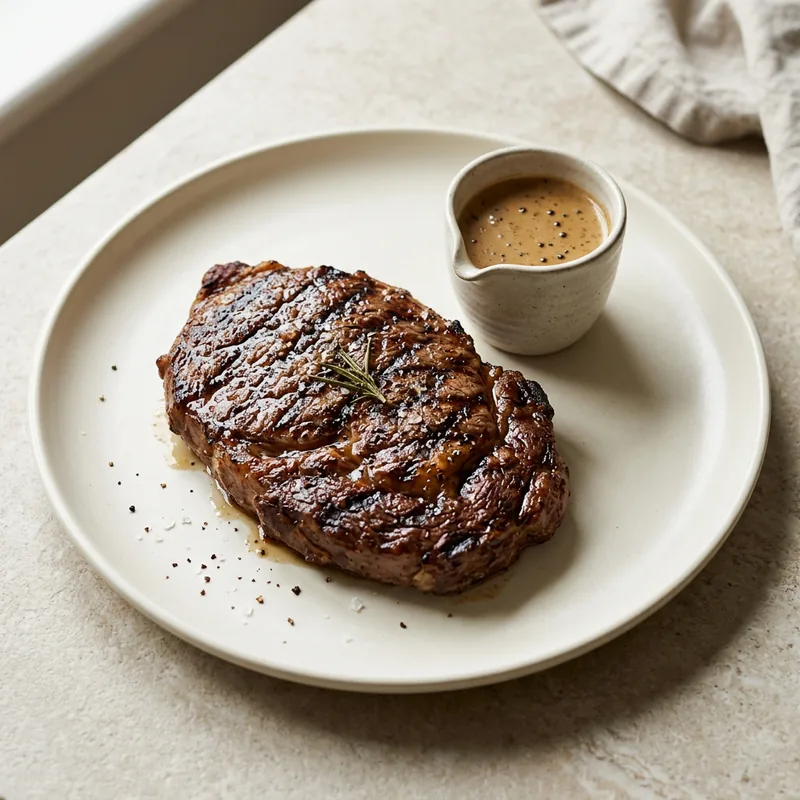
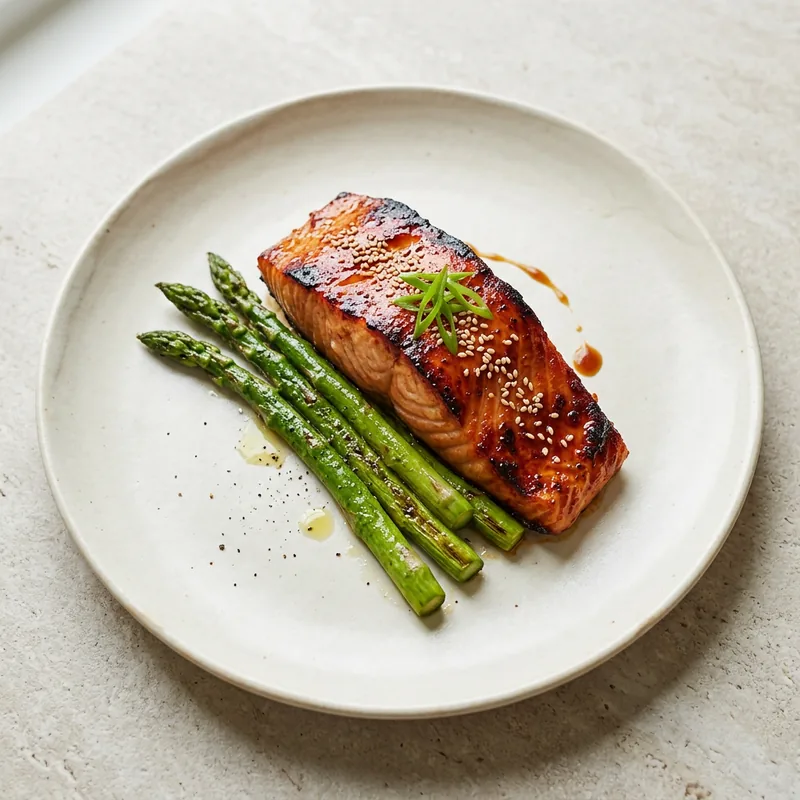
fix(home): correct dish photos in featured TTK cards (named images); add cheesecake photo; bump cache v9 / v=1048

diff --git a/index.html b/index.html
@@ -7,7 +7,7 @@
     /><meta property="og:image:width" content="1200" /><meta property="og:image:height" content="630" /><meta property="og:image:type" content="image/webp" /><meta property="og:image:alt" content="GastroConnect — HoReCa платформа для Москвы и области" /><meta name="twitter:card" content="summary_large_image" /><meta name="twitter:title" content="GastroConnect — смены, персонал и поставщики HoReCa в Москве" /><meta name="twitter:description" content="Срочные смены для поваров, официантов и бариста, надежный персонал для ресторанов и прямые B2B-поставки в Москве и Московской области." /><meta
       name="twitter:image"
       content="https://gastroconnect.ru/assets/og-gastroconnect.webp"
-    /><link rel="icon" href="/assets/favicon.svg" type="image/svg+xml" sizes="120x120" /><link rel="alternate icon" href="/favicon.ico" sizes="any" /><link rel="manifest" href="/site.webmanifest" /><link rel="stylesheet" href="/style.css?v=1047" /><script type="application/ld+json">
+    /><link rel="icon" href="/assets/favicon.svg" type="image/svg+xml" sizes="120x120" /><link rel="alternate icon" href="/favicon.ico" sizes="any" /><link rel="manifest" href="/site.webmanifest" /><link rel="stylesheet" href="/style.css?v=1048" /><script type="application/ld+json">
     {
       "@context": "https://schema.org",
       "@graph": [
@@ -1107,17 +1107,8 @@
 
               <!-- Card 4: Basque Cheesecake -->
               <div style="background: #1D5139; border: 1.5px solid rgba(198,163,98,0.25); border-radius: 14px; overflow: hidden; display: flex; flex-direction: column; box-shadow: 0 6px 20px rgba(0,0,0,0.05);">
-                <div style="height: 160px; background: #451a03; position: relative;">
-                  <svg viewBox="0 0 400 280" style="width: 100%; height: 100%; object-fit: cover;">
-                    <ellipse cx="200" cy="150" rx="160" ry="95" fill="#F2E8D5"/>
-                    <path d="M 90 170 C 130 190, 200 190, 280 160" stroke="#991b1b" stroke-width="12" fill="none" opacity="0.4"/>
-                    <g transform="translate(130, 75)">
-                      <path d="M 20 60 L 120 20 L 105 25 L 20 60 Z" fill="#3f1f10"/>
-                      <path d="M 20 60 L 125 110 L 115 130 L 15 80 Z" fill="#fde68a" stroke="#d97706" stroke-width="1"/>
-                    </g>
-                    <circle cx="140" cy="180" r="9" fill="#be123c"/>
-                    <circle cx="260" cy="155" r="9" fill="#be123c"/>
-                  </svg>
+                <div style="height: 160px; background: #101C17; position: relative;">
+                  <img src="/assets/ttk-featured-4.webp" alt="Баскский чизкейк Сан-Себастьян — фото блюда" loading="lazy" decoding="async" style="width: 100%; height: 100%; object-fit: cover; display: block;" />
                   <span style="position: absolute; top: 10px; right: 10px; background: var(--green); color: #fff; font-size: 11px; font-weight: 800; padding: 3px 8px; border-radius: 6px;">FC: 22.0%</span>
                   <span style="position: absolute; top: 10px; left: 10px; background: rgba(0,0,0,0.7); color: var(--gold); font-size: 11px; font-weight: 700; padding: 2px 7px; border-radius: 5px;">ТТК-КОНД-09</span>
                 </div>

diff --git a/cabinet.html b/cabinet.html
@@ -3,7 +3,7 @@
       content="Личный кабинет GastroConnect для профилей, смен, приглашений и заявок по ролям."
     />
     <meta property="og:description" content="Личный кабинет пользователя GastroConnect: управление профилем, отклики на смены, приглашения кандидатов и мониторинг заявок." />
-    <meta name="keywords" content="личный кабинет gastroconnect, кабинет соискателя horeca, кабинет заведения москва, управление сменами gastroconnect" /><meta name="theme-color" content="#1D5139" /><link rel="icon" href="/assets/favicon.svg" type="image/svg+xml" sizes="120x120" /><link rel="alternate icon" href="/favicon.ico" sizes="any" /><link rel="manifest" href="/site.webmanifest" /><link rel="stylesheet" href="/style.css?v=1047" />
+    <meta name="keywords" content="личный кабинет gastroconnect, кабинет соискателя horeca, кабинет заведения москва, управление сменами gastroconnect" /><meta name="theme-color" content="#1D5139" /><link rel="icon" href="/assets/favicon.svg" type="image/svg+xml" sizes="120x120" /><link rel="alternate icon" href="/favicon.ico" sizes="any" /><link rel="manifest" href="/site.webmanifest" /><link rel="stylesheet" href="/style.css?v=1048" />
   <script defer src="/cookie-consent.js"></script>
 </head><body><div class="page-shell"><header class="site-header"><a class="brand" href="/" aria-label="GastroConnect"><span class="brand-mark" aria-hidden="true">GC</span><span class="brand-text">GastroConnect</span></a><nav class="main-nav" aria-label="Главное меню"><a href="/workers/">Сотрудникам</a><a href="/restaurants/">Заведениям</a><a href="/suppliers/">Поставщикам</a><a href="/menu/" style="color: var(--ink); font-weight: 750;">Меню и техкарты</a><a href="/contacts/">Контакты</a></nav><button id="logoutBtn" type="button">Выйти</button></header><main class="cabinet-page service-page"><section class="service-hero service-hero-cabinet"><div class="service-hero-copy"><p class="eyebrow" data-site-setting="cabinet.eyebrow">
               Рабочее пространство

diff --git a/cabinet/index.html b/cabinet/index.html
@@ -3,7 +3,7 @@
       content="Личный кабинет GastroConnect для профилей, смен, приглашений и заявок по ролям."
     />
     <meta property="og:description" content="Личный кабинет пользователя GastroConnect: управление профилем, отклики на смены, приглашения кандидатов и мониторинг заявок." />
-    <meta name="keywords" content="личный кабинет gastroconnect, кабинет соискателя horeca, кабинет заведения москва, управление сменами gastroconnect" /><meta name="theme-color" content="#1D5139" /><link rel="icon" href="/assets/favicon.svg" type="image/svg+xml" sizes="120x120" /><link rel="alternate icon" href="/favicon.ico" sizes="any" /><link rel="manifest" href="/site.webmanifest" /><link rel="stylesheet" href="/style.css?v=1047" />
+    <meta name="keywords" content="личный кабинет gastroconnect, кабинет соискателя horeca, кабинет заведения москва, управление сменами gastroconnect" /><meta name="theme-color" content="#1D5139" /><link rel="icon" href="/assets/favicon.svg" type="image/svg+xml" sizes="120x120" /><link rel="alternate icon" href="/favicon.ico" sizes="any" /><link rel="manifest" href="/site.webmanifest" /><link rel="stylesheet" href="/style.css?v=1048" />
   <script defer src="/cookie-consent.js"></script>
 </head><body><div class="page-shell"><header class="site-header"><a class="brand" href="/" aria-label="GastroConnect"><span class="brand-mark" aria-hidden="true">GC</span><span class="brand-text">GastroConnect</span></a><nav class="main-nav" aria-label="Главное меню"><a href="/workers/">Сотрудникам</a><a href="/restaurants/">Заведениям</a><a href="/suppliers/">Поставщикам</a><a href="/menu/" style="color: var(--ink); font-weight: 750;">Меню и техкарты</a><a href="/contacts/">Контакты</a></nav><button id="logoutBtn" type="button">Выйти</button></header><main class="cabinet-page service-page"><section class="service-hero service-hero-cabinet"><div class="service-hero-copy"><p class="eyebrow" data-site-setting="cabinet.eyebrow">
               Рабочее пространство

diff --git a/admin.html b/admin.html
@@ -3,7 +3,7 @@
       content="Локальная панель управления заявками GastroConnect."
     />
     <meta property="og:description" content="Панель администратора GastroConnect: модерация заявок, управление базой пользователей и смен HoReCa." />
-    <meta name="keywords" content="панель администратора gastroconnect, администрирование смен horeca, модерация заявок gastroconnect" /><meta name="theme-color" content="#1D5139" /><link rel="icon" href="/assets/favicon.svg" type="image/svg+xml" sizes="120x120" /><link rel="alternate icon" href="/favicon.ico" sizes="any" /><link rel="manifest" href="/site.webmanifest" /><link rel="stylesheet" href="/style.css?v=1047" />
+    <meta name="keywords" content="панель администратора gastroconnect, администрирование смен horeca, модерация заявок gastroconnect" /><meta name="theme-color" content="#1D5139" /><link rel="icon" href="/assets/favicon.svg" type="image/svg+xml" sizes="120x120" /><link rel="alternate icon" href="/favicon.ico" sizes="any" /><link rel="manifest" href="/site.webmanifest" /><link rel="stylesheet" href="/style.css?v=1048" />
   <script defer src="/cookie-consent.js"></script>
 </head><body><div class="page-shell"><header class="site-header"><a class="brand" href="/" aria-label="GastroConnect"><span class="brand-mark" aria-hidden="true">GC</span><span class="brand-text">GastroConnect</span></a><nav class="main-nav" aria-label="Главное меню"><a href="/workers/" data-site-setting="nav.workers">Сотрудникам</a><a href="/restaurants/" data-site-setting="nav.restaurants"
             >Заведениям</a

diff --git a/admin/index.html b/admin/index.html
@@ -3,7 +3,7 @@
       content="Локальная панель управления заявками GastroConnect."
     />
     <meta property="og:description" content="Панель администратора GastroConnect: модерация заявок, управление базой пользователей и смен HoReCa." />
-    <meta name="keywords" content="панель администратора gastroconnect, администрирование смен horeca, модерация заявок gastroconnect" /><meta name="theme-color" content="#1D5139" /><link rel="icon" href="/assets/favicon.svg" type="image/svg+xml" sizes="120x120" /><link rel="alternate icon" href="/favicon.ico" sizes="any" /><link rel="manifest" href="/site.webmanifest" /><link rel="stylesheet" href="/style.css?v=1047" />
+    <meta name="keywords" content="панель администратора gastroconnect, администрирование смен horeca, модерация заявок gastroconnect" /><meta name="theme-color" content="#1D5139" /><link rel="icon" href="/assets/favicon.svg" type="image/svg+xml" sizes="120x120" /><link rel="alternate icon" href="/favicon.ico" sizes="any" /><link rel="manifest" href="/site.webmanifest" /><link rel="stylesheet" href="/style.css?v=1048" />
   <script defer src="/cookie-consent.js"></script>
 </head><body><div class="page-shell"><header class="site-header"><a class="brand" href="/" aria-label="GastroConnect"><span class="brand-mark" aria-hidden="true">GC</span><span class="brand-text">GastroConnect</span></a><nav class="main-nav" aria-label="Главное меню"><a href="/workers/" data-site-setting="nav.workers">Сотрудникам</a><a href="/restaurants/" data-site-setting="nav.restaurants"
             >Заведениям</a

diff --git a/manage.html b/manage.html
@@ -3,7 +3,7 @@
       content="Панель управления логотипом, hero-картинками, текстами и заявками GastroConnect."
     />
     <meta property="og:description" content="Панель управления контентом, визуальными блоками и настройками платформы GastroConnect." />
-    <meta name="keywords" content="управление сайтом gastroconnect, cms gastroconnect, настройка платформы horeca" /><meta name="theme-color" content="#1D5139" /><link rel="icon" href="/assets/favicon.svg" type="image/svg+xml" sizes="120x120" /><link rel="alternate icon" href="/favicon.ico" sizes="any" /><link rel="manifest" href="/site.webmanifest" /><link rel="stylesheet" href="/style.css?v=1047" />
+    <meta name="keywords" content="управление сайтом gastroconnect, cms gastroconnect, настройка платформы horeca" /><meta name="theme-color" content="#1D5139" /><link rel="icon" href="/assets/favicon.svg" type="image/svg+xml" sizes="120x120" /><link rel="alternate icon" href="/favicon.ico" sizes="any" /><link rel="manifest" href="/site.webmanifest" /><link rel="stylesheet" href="/style.css?v=1048" />
   <script defer src="/cookie-consent.js"></script>
 </head><body><div class="page-shell"><header class="site-header"><a class="brand" href="/" aria-label="GastroConnect"><span class="brand-mark" aria-hidden="true">GC</span><span class="brand-text">GastroConnect</span></a><nav class="main-nav" aria-label="Главное меню"><a href="/workers/" data-site-setting="nav.workers">Сотрудникам</a><a href="/restaurants/" data-site-setting="nav.restaurants"
             >Заведениям</a

diff --git a/manage/index.html b/manage/index.html
@@ -3,7 +3,7 @@
       content="Панель управления логотипом, hero-картинками, текстами и заявками GastroConnect."
     />
     <meta property="og:description" content="Панель управления контентом, визуальными блоками и настройками платформы GastroConnect." />
-    <meta name="keywords" content="управление сайтом gastroconnect, cms gastroconnect, настройка платформы horeca" /><meta name="theme-color" content="#1D5139" /><link rel="icon" href="/assets/favicon.svg" type="image/svg+xml" sizes="120x120" /><link rel="alternate icon" href="/favicon.ico" sizes="any" /><link rel="manifest" href="/site.webmanifest" /><link rel="stylesheet" href="/style.css?v=1047" />
+    <meta name="keywords" content="управление сайтом gastroconnect, cms gastroconnect, настройка платформы horeca" /><meta name="theme-color" content="#1D5139" /><link rel="icon" href="/assets/favicon.svg" type="image/svg+xml" sizes="120x120" /><link rel="alternate icon" href="/favicon.ico" sizes="any" /><link rel="manifest" href="/site.webmanifest" /><link rel="stylesheet" href="/style.css?v=1048" />
   <script defer src="/cookie-consent.js"></script>
 </head><body><div class="page-shell"><header class="site-header"><a class="brand" href="/" aria-label="GastroConnect"><span class="brand-mark" aria-hidden="true">GC</span><span class="brand-text">GastroConnect</span></a><nav class="main-nav" aria-label="Главное меню"><a href="/workers/" data-site-setting="nav.workers">Сотрудникам</a><a href="/restaurants/" data-site-setting="nav.restaurants"
             >Заведениям</a

diff --git a/workers/index.html b/workers/index.html
@@ -47,7 +47,7 @@
     <link rel="icon" href="/assets/favicon.svg" type="image/svg+xml" sizes="120x120" />
     <link rel="alternate icon" href="/favicon.ico" sizes="any" />
     <link rel="manifest" href="/site.webmanifest" />
-    <link rel="stylesheet" href="/style.css?v=1047" />
+    <link rel="stylesheet" href="/style.css?v=1048" />
     <style id="workers-vacancies-hover-anim">
       .vacancies-grid .vacancy-card {
         transition: transform 0.3s cubic-bezier(0.2, 0.8, 0.25, 1), box-shadow 0.3s cubic-bezier(0.2, 0.8, 0.25, 1), border-color 0.3s ease;

diff --git a/podrabotka-kitay-gorod/index.html b/podrabotka-kitay-gorod/index.html
@@ -18,7 +18,7 @@
     <meta property="og:image" content="https://gastroconnect.ru/assets/og-gastroconnect.webp" />
     <meta name="twitter:card" content="summary_large_image" />
     <link rel="icon" href="/assets/favicon.svg" type="image/svg+xml" sizes="120x120" />
-    <link rel="stylesheet" href="/style.css?v=1047" />
+    <link rel="stylesheet" href="/style.css?v=1048" />
     <script type="application/ld+json">
     {
       "@context": "https://schema.org",

diff --git a/podrabotka-patriarshie/index.html b/podrabotka-patriarshie/index.html
@@ -18,7 +18,7 @@
     <meta property="og:image" content="https://gastroconnect.ru/assets/og-gastroconnect.webp" />
     <meta name="twitter:card" content="summary_large_image" />
     <link rel="icon" href="/assets/favicon.svg" type="image/svg+xml" sizes="120x120" />
-    <link rel="stylesheet" href="/style.css?v=1047" />
+    <link rel="stylesheet" href="/style.css?v=1048" />
     <script type="application/ld+json">
     {
       "@context": "https://schema.org",

diff --git a/podrabotka-povarom-belorusskaya/index.html b/podrabotka-povarom-belorusskaya/index.html
@@ -19,7 +19,7 @@
     <meta property="og:image" content="https://gastroconnect.ru/assets/og-gastroconnect.webp" />
     <meta name="twitter:card" content="summary_large_image" />
     <link rel="icon" href="/assets/favicon.svg" type="image/svg+xml" sizes="120x120" />
-    <link rel="stylesheet" href="/style.css?v=1047" />
+    <link rel="stylesheet" href="/style.css?v=1048" />
     <script type="application/ld+json">
     {
       "@context": "https://schema.org",

diff --git a/podrabotka-siti/index.html b/podrabotka-siti/index.html
@@ -18,7 +18,7 @@
     <meta property="og:image" content="https://gastroconnect.ru/assets/og-gastroconnect.webp" />
     <meta name="twitter:card" content="summary_large_image" />
     <link rel="icon" href="/assets/favicon.svg" type="image/svg+xml" sizes="120x120" />
-    <link rel="stylesheet" href="/style.css?v=1047" />
+    <link rel="stylesheet" href="/style.css?v=1048" />
     <script type="application/ld+json">
     {
       "@context": "https://schema.org",
